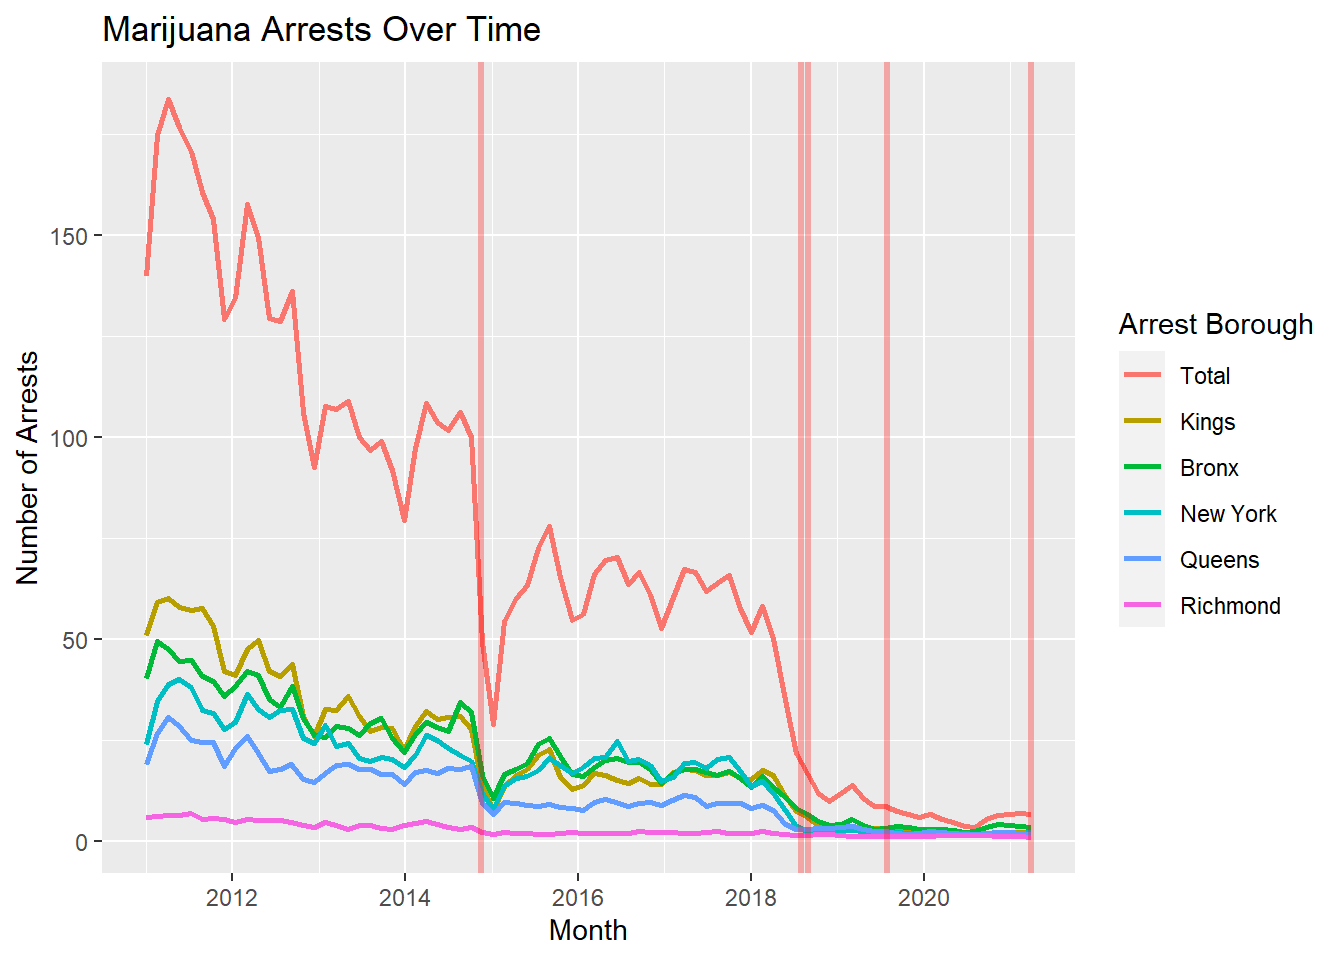
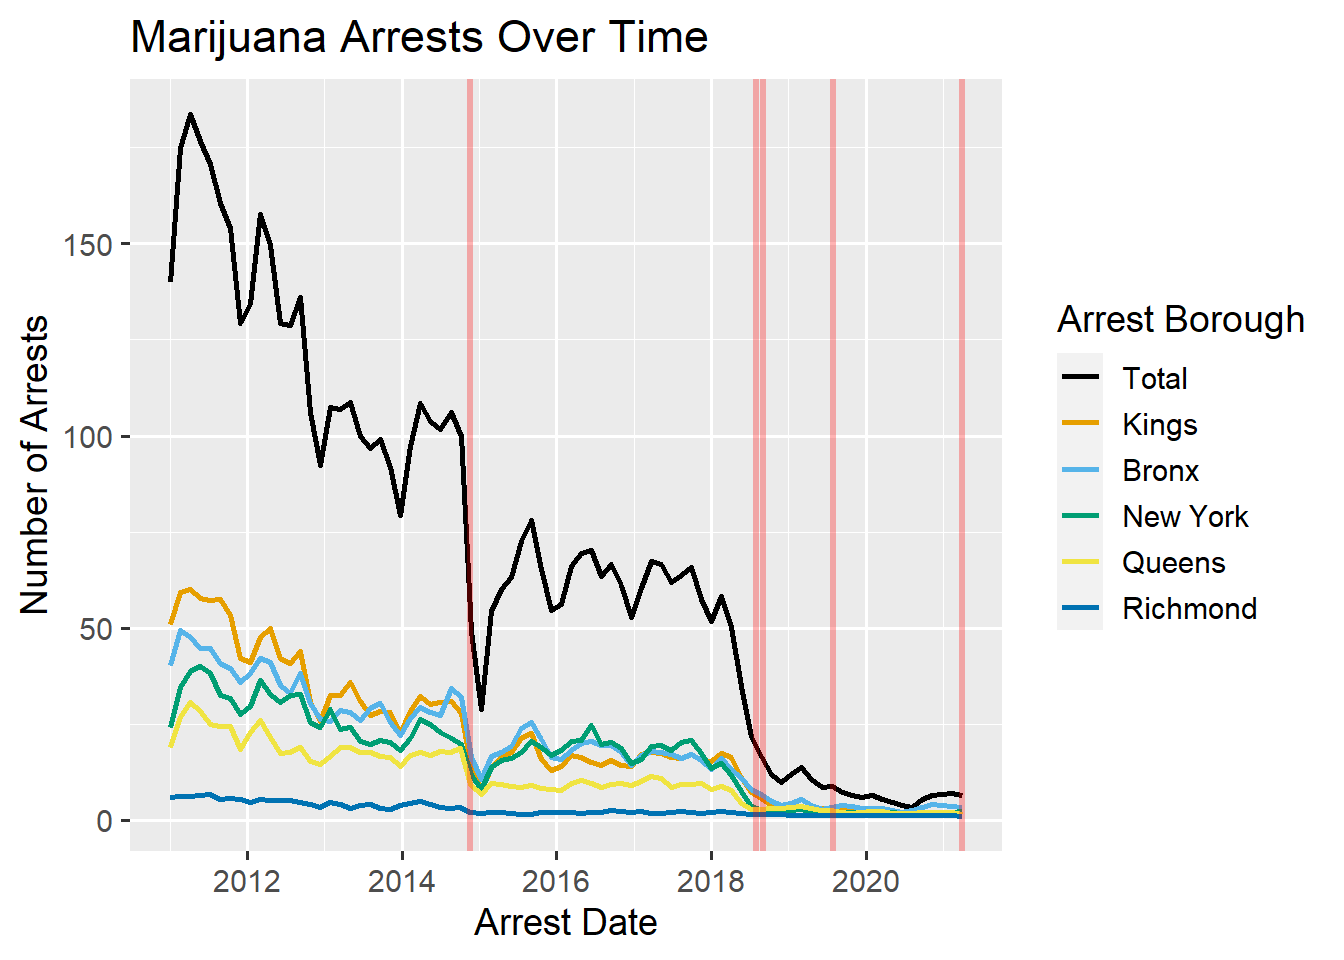
Stylistic revisions to Results.

diff --git a/docs/results.html b/docs/results.html
@@ -145,9 +145,24 @@ code span.wa { color: #60a0b0; font-weight: bold; font-style: italic; } /* Warni
 </ul></li>
 <li class="chapter" data-level="2" data-path="data-sources.html"><a href="data-sources.html"><i class="fa fa-check"></i><b>2</b> Data sources</a>
 <ul>
-<li class="chapter" data-level="2.1" data-path="data-sources.html"><a href="data-sources.html#arrest-data"><i class="fa fa-check"></i><b>2.1</b> Arrest Data</a></li>
-<li class="chapter" data-level="2.2" data-path="data-sources.html"><a href="data-sources.html#crime-data"><i class="fa fa-check"></i><b>2.2</b> Crime Data</a></li>
-<li class="chapter" data-level="2.3" data-path="data-sources.html"><a href="data-sources.html#weather-data"><i class="fa fa-check"></i><b>2.3</b> Weather Data</a></li>
+<li class="chapter" data-level="2.1" data-path="data-sources.html"><a href="data-sources.html#arrest-data"><i class="fa fa-check"></i><b>2.1</b> Arrest Data</a>
+<ul>
+<li class="chapter" data-level="2.1.1" data-path="data-sources.html"><a href="data-sources.html#arrest-data-acquisition"><i class="fa fa-check"></i><b>2.1.1</b> Arrest Data Acquisition</a></li>
+<li class="chapter" data-level="2.1.2" data-path="data-sources.html"><a href="data-sources.html#arrest-data-details"><i class="fa fa-check"></i><b>2.1.2</b> Arrest Data Details</a></li>
+<li class="chapter" data-level="2.1.3" data-path="data-sources.html"><a href="data-sources.html#arrest-data-issues"><i class="fa fa-check"></i><b>2.1.3</b> Arrest Data Issues</a></li>
+</ul></li>
+<li class="chapter" data-level="2.2" data-path="data-sources.html"><a href="data-sources.html#crime-data"><i class="fa fa-check"></i><b>2.2</b> Crime Data</a>
+<ul>
+<li class="chapter" data-level="2.2.1" data-path="data-sources.html"><a href="data-sources.html#crime-data-acquisition"><i class="fa fa-check"></i><b>2.2.1</b> Crime Data Acquisition</a></li>
+<li class="chapter" data-level="2.2.2" data-path="data-sources.html"><a href="data-sources.html#crime-data-details"><i class="fa fa-check"></i><b>2.2.2</b> Crime Data Details</a></li>
+<li class="chapter" data-level="2.2.3" data-path="data-sources.html"><a href="data-sources.html#crime-data-issues"><i class="fa fa-check"></i><b>2.2.3</b> Crime Data Issues</a></li>
+</ul></li>
+<li class="chapter" data-level="2.3" data-path="data-sources.html"><a href="data-sources.html#weather-data"><i class="fa fa-check"></i><b>2.3</b> Weather Data</a>
+<ul>
+<li class="chapter" data-level="2.3.1" data-path="data-sources.html"><a href="data-sources.html#weather-data-acquisition"><i class="fa fa-check"></i><b>2.3.1</b> Weather Data Acquisition</a></li>
+<li class="chapter" data-level="2.3.2" data-path="data-sources.html"><a href="data-sources.html#weather-data-details"><i class="fa fa-check"></i><b>2.3.2</b> Weather Data Details</a></li>
+<li class="chapter" data-level="2.3.3" data-path="data-sources.html"><a href="data-sources.html#weather-data-issues"><i class="fa fa-check"></i><b>2.3.3</b> Weather Data Issues</a></li>
+</ul></li>
 </ul></li>
 <li class="chapter" data-level="3" data-path="data-transformation.html"><a href="data-transformation.html"><i class="fa fa-check"></i><b>3</b> Data transformation</a>
 <ul>
@@ -177,7 +192,7 @@ code span.wa { color: #60a0b0; font-weight: bold; font-style: italic; } /* Warni
 <li class="chapter" data-level="5.3" data-path="results.html"><a href="results.html#arrests-related-to-marijuana-over-time"><i class="fa fa-check"></i><b>5.3</b> Arrests Related to Marijuana over time</a></li>
 <li class="chapter" data-level="5.4" data-path="results.html"><a href="results.html#arrests-near-elections"><i class="fa fa-check"></i><b>5.4</b> Arrests near Elections</a></li>
 <li class="chapter" data-level="5.5" data-path="results.html"><a href="results.html#thanksgiving-day-parade---more-arrests-or-fewer"><i class="fa fa-check"></i><b>5.5</b> Thanksgiving Day Parade - More arrests, or fewer?</a></li>
-<li class="chapter" data-level="5.6" data-path="results.html"><a href="results.html#have-drunk-driving-arrests-gone-down-recently"><i class="fa fa-check"></i><b>5.6</b> Have Drunk Driving Arrests Gone Down Recently</a></li>
+<li class="chapter" data-level="5.6" data-path="results.html"><a href="results.html#have-drunk-driving-arrests-gone-down-recently"><i class="fa fa-check"></i><b>5.6</b> Have Drunk Driving Arrests Gone Down Recently?</a></li>
 </ul></li>
 <li class="chapter" data-level="6" data-path="interactive-component-1.html"><a href="interactive-component-1.html"><i class="fa fa-check"></i><b>6</b> Interactive component</a></li>
 <li class="chapter" data-level="7" data-path="conclusion.html"><a href="conclusion.html"><i class="fa fa-check"></i><b>7</b> Conclusion</a></li>
@@ -391,7 +406,7 @@ Number of Arrests
 <p><img src="finalproj_files/figure-html/unnamed-chunk-16-1.png" width="672" /></p>
 </div>
 <div id="have-drunk-driving-arrests-gone-down-recently" class="section level2" number="5.6">
-<h2><span class="header-section-number">5.6</span> Have Drunk Driving Arrests Gone Down Recently</h2>
+<h2><span class="header-section-number">5.6</span> Have Drunk Driving Arrests Gone Down Recently?</h2>
 <p>Our next exploration is looking at arrests related to drunk driving. We wanted to see if the creation of apps like Uber and Lyft has helped limit the number of drunk driving arrests. To do this, we looked at the number of drunk driving arrests in each of the past 10 years.</p>
 <p><img src="finalproj_files/figure-html/unnamed-chunk-17-1.png" width="672" /></p>
 <p>From the plot above, we can see an interesting trend in terms of drunk driving arrests over the past 10 years. There is a clear increase in arrests during 2013 and 2014 related to drunk driving before it drops off in subsequent years. There is a sharp drop in number of arrests in 2020 and so far in 2021 which is likely due to the pandemic. As noted on the plot, Lyft was started in 2012 while Uber was created in 2009. These apps didn’t seem to have much impact on drunk driving arrests initially, but could have had some impact once they got larger and became more well-known. There has been a progressive decrease in drunk driving arrests since 2015/2016 which is likely due to a combination of the growth of these apps as well as more awareness towards drunk driving. Even if the reasoning for the drop off is not completely clear, it is a good sign that the number of drunk driving arrests has gone down in recent years.</p>

diff --git a/docs/404.html b/docs/404.html
@@ -57,6 +57,70 @@
 <link href="libs/lightable-0.0.1/lightable.css" rel="stylesheet" />
 
 
+<style type="text/css">
+pre > code.sourceCode { white-space: pre; position: relative; }
+pre > code.sourceCode > span { display: inline-block; line-height: 1.25; }
+pre > code.sourceCode > span:empty { height: 1.2em; }
+.sourceCode { overflow: visible; }
+code.sourceCode > span { color: inherit; text-decoration: inherit; }
+pre.sourceCode { margin: 0; }
+@media screen {
+div.sourceCode { overflow: auto; }
+}
+@media print {
+pre > code.sourceCode { white-space: pre-wrap; }
+pre > code.sourceCode > span { text-indent: -5em; padding-left: 5em; }
+}
+pre.numberSource code
+  { counter-reset: source-line 0; }
+pre.numberSource code > span
+  { position: relative; left: -4em; counter-increment: source-line; }
+pre.numberSource code > span > a:first-child::before
+  { content: counter(source-line);
+    position: relative; left: -1em; text-align: right; vertical-align: baseline;
+    border: none; display: inline-block;
+    -webkit-touch-callout: none; -webkit-user-select: none;
+    -khtml-user-select: none; -moz-user-select: none;
+    -ms-user-select: none; user-select: none;
+    padding: 0 4px; width: 4em;
+    color: #aaaaaa;
+  }
+pre.numberSource { margin-left: 3em; border-left: 1px solid #aaaaaa;  padding-left: 4px; }
+div.sourceCode
+  {   }
+@media screen {
+pre > code.sourceCode > span > a:first-child::before { text-decoration: underline; }
+}
+code span.al { color: #ff0000; font-weight: bold; } /* Alert */
+code span.an { color: #60a0b0; font-weight: bold; font-style: italic; } /* Annotation */
+code span.at { color: #7d9029; } /* Attribute */
+code span.bn { color: #40a070; } /* BaseN */
+code span.bu { } /* BuiltIn */
+code span.cf { color: #007020; font-weight: bold; } /* ControlFlow */
+code span.ch { color: #4070a0; } /* Char */
+code span.cn { color: #880000; } /* Constant */
+code span.co { color: #60a0b0; font-style: italic; } /* Comment */
+code span.cv { color: #60a0b0; font-weight: bold; font-style: italic; } /* CommentVar */
+code span.do { color: #ba2121; font-style: italic; } /* Documentation */
+code span.dt { color: #902000; } /* DataType */
+code span.dv { color: #40a070; } /* DecVal */
+code span.er { color: #ff0000; font-weight: bold; } /* Error */
+code span.ex { } /* Extension */
+code span.fl { color: #40a070; } /* Float */
+code span.fu { color: #06287e; } /* Function */
+code span.im { } /* Import */
+code span.in { color: #60a0b0; font-weight: bold; font-style: italic; } /* Information */
+code span.kw { color: #007020; font-weight: bold; } /* Keyword */
+code span.op { color: #666666; } /* Operator */
+code span.ot { color: #007020; } /* Other */
+code span.pp { color: #bc7a00; } /* Preprocessor */
+code span.sc { color: #4070a0; } /* SpecialChar */
+code span.ss { color: #bb6688; } /* SpecialString */
+code span.st { color: #4070a0; } /* String */
+code span.va { color: #19177c; } /* Variable */
+code span.vs { color: #4070a0; } /* VerbatimString */
+code span.wa { color: #60a0b0; font-weight: bold; font-style: italic; } /* Warning */
+</style>
 
 
 <link rel="stylesheet" href="style.css" type="text/css" />
@@ -128,7 +192,7 @@
 <li class="chapter" data-level="5.3" data-path="results.html"><a href="results.html#arrests-related-to-marijuana-over-time"><i class="fa fa-check"></i><b>5.3</b> Arrests Related to Marijuana over time</a></li>
 <li class="chapter" data-level="5.4" data-path="results.html"><a href="results.html#arrests-near-elections"><i class="fa fa-check"></i><b>5.4</b> Arrests near Elections</a></li>
 <li class="chapter" data-level="5.5" data-path="results.html"><a href="results.html#thanksgiving-day-parade---more-arrests-or-fewer"><i class="fa fa-check"></i><b>5.5</b> Thanksgiving Day Parade - More arrests, or fewer?</a></li>
-<li class="chapter" data-level="5.6" data-path="results.html"><a href="results.html#have-drunk-driving-arrests-gone-down-recently"><i class="fa fa-check"></i><b>5.6</b> Have Drunk Driving Arrests Gone Down Recently</a></li>
+<li class="chapter" data-level="5.6" data-path="results.html"><a href="results.html#have-drunk-driving-arrests-gone-down-recently"><i class="fa fa-check"></i><b>5.6</b> Have Drunk Driving Arrests Gone Down Recently?</a></li>
 </ul></li>
 <li class="chapter" data-level="6" data-path="interactive-component-1.html"><a href="interactive-component-1.html"><i class="fa fa-check"></i><b>6</b> Interactive component</a></li>
 <li class="chapter" data-level="7" data-path="conclusion.html"><a href="conclusion.html"><i class="fa fa-check"></i><b>7</b> Conclusion</a></li>
